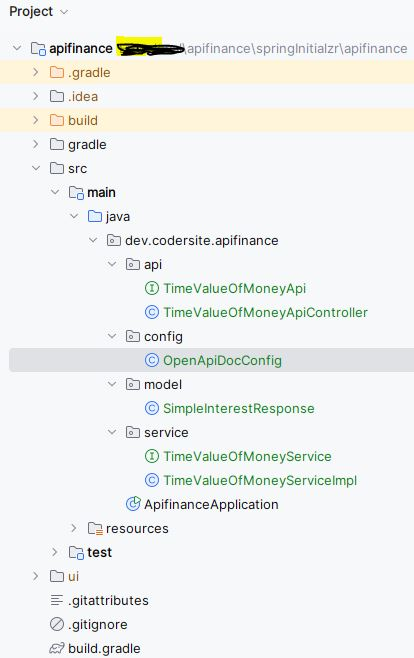
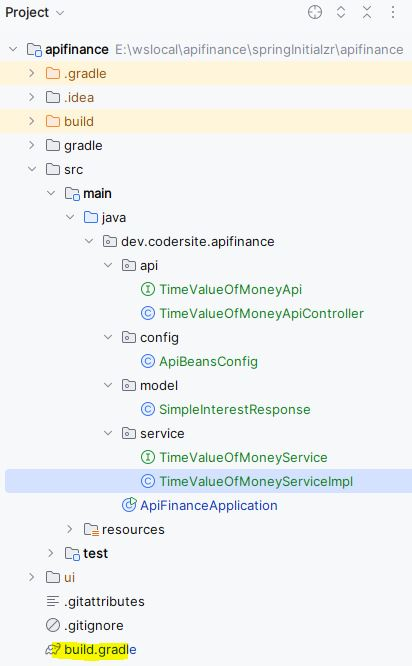
clean code include constants

diff --git a/_site/assets/js/lunrsearchengine.js b/_site/assets/js/lunrsearchengine.js
@@ -248,7 +248,7 @@ var documents = [{
     "id": 49,
     "url": "http://localhost:4000/clean-code/",
     "title": "Best practices for writing Clean Code",
-    "body": "2020/10/27 - Clean code can be read and enhanced by a developer other than its original author. This kind of practice Robert C Martin introduced it. If you want to be a better programmer, you must follow these recommendations. Clean Code has Intention-Revealing names: Names reveal intent. Someone who reads your code must understand the purpose of your variable, function, or class. Real situation: 12int sId; //supplier Idint artDelPrice;It must be refactored to this: 12int supplierId;int articleDeliveredPrice;Even with external dependencies: 1private Z_E2F_RS_Result e2fResult; //ingredients recordsetIt must be refactored to this: 1private Z_E2F_RS_Result ingredients;Imagine that we dont have the //ingredients comment in e2fResult variable. Then, further in any part of our code, when we try to process this variable, we have the following sentence: 1e2f = e2fResult[i];And we don’t know what does e2f means!. Well, someone suggests asking the person responsible for this code. But that guy is not at the office. Well, send it an email, and he is on holiday!. But if instead we adopt names which reveal intent from beginning, we could avoid these catastrophic scenarios. Refactored code: 1ingredient = ingredients[i];Functions should do one thing: Imagine we want to retrieve image objects from an external web service. Firstly, we receive image metadata that informs different values to decide if an image is valid or not, and one of these values is an image identifier to retrieve the final image object. 1234567891011121314151617private String retrieveImageId(String[] values) {  if (!values[2]. equals( Y ) || !values[3]. equals( Y ))  return null;	  String imageId = null;  //get the first not null value as the imageId  if (values[4] != null) {   imageId = values[4]; //imageAIXId  } else if (values[5] != null) {   imageId = values[5]; //imageLIXId  } else if (values[6] != null) {   imageId = values[6]; //imageOIXId  }  return imageId;}The previous code is doing more than one thing: validate and retrieve. Each thing should implement only one level of abstraction. Therefore we proceed to refactor it. 1234567private boolean validateImage(String[] values) {  if (!values[2]. equals( Y ) || !values[3]. equals( Y ))  return false;	 return true;}1234567891011121314private String retrieveImageId(String[] values) {  String imageId = null; //get the first not null value as the immageId if (values[4] != null) {  imageId = values[4]; //imageAIXId } else if (values[5] != null) {  imageId = values[5]; //imageLIXId } else if (values[6] != null) {  imageId = values[6]; //imageOIXId } return imageId;}Here is an example of how to use these new smaller functions. 12345678910111213public void syncronizeImages () {  Response response = api. getImages(); Row[] rows = response. getRows(); for (Row row : rows) {  String[] values = row. getValues();  if (validateImage(values)) {   String imageId = retrieveImageId(values);   //call ULR to retrieve image object   //code omitted for brevity  } }}Don’t comment bad code, rewrite it: Imagine you requested metadata from a list of articles, but the external API, for any reason, includes additional articles in its response object. Before processing their metadata, you want to check that retrieved articles are inside your temporal map of requested articles. Introduces a comment to alert your colleagues. 123456789101112131415public void syncronizeImages () { Response response = api. getImages(mapOfArticles); Row[] rows = response. getRows(); for (Row row : rows) {  String[] values = row. getValues();  String articleId = values[1];    //only requested articles  if (!mapOfArticles. containsKey(articleId))   continue;	   //code omitted for brevity }}You can avoid this extra unnecessary comment if you express in your code what you want to communicate by renaming the map variable name. 1234567891011121314public void syncronizeImages () { Response response = api. getImages(mapOfRequestedArticles); Row[] rows = response. getRows(); for (Row row : rows) {  String[] values = row. getValues();  String articleId = values[1];    if (!mapOfRequestedArticles. containsKey(articleId))   continue;	   //code omitted for brevity }}Now, your code is more expressive. Choose simplicity over complexity: As developers, sometimes we use ternary conditional operators that take less space, but when we introduce more variables, the code is not readable or is more difficult to evolve. For example, when we try to build the article’s image URL, we need to evaluate if an image is valid and if the image is not restricted; if it is restricted, we need to assess whether a partner can retrieve this image. 1String articleImageURL = (imageId &lt;= 0 || (imageIdIsRestricted &amp;&amp; !partnerCanSeeImage)) ? null : IMAGE_URL + imageId;The previous code can be refactored using nested if-else statements, which is easier to understand. 12345678910String articleImageURL = null;if (imageId &gt; 0) { if (imageIdIsRestricted) {  if (partnerCanSeeImage) {   articleImageURL = IMAGE_URL + imageId;  } } else {  articleImageURL = IMAGE_URL + imageId; }}Even the KISS (Keep It Simple, Stupid) principle suggests that developers should strive for simplicity and avoid unnecessary complexity. This makes code easier to understand, maintain, and debug.  Any software design is generally a matter of opinion. There is no definitive Guide. – codersite. dev  Avoid hard coding: Hard coding is embedding data directly into the source code instead of obtaining the data from external sources. Sometimes we can’t avoid including conditional statements using hardcoded values because we need to implement them in a production environment immediately. There are hundreds of reasons why this happens because every company is different. A company wants to implement in its code validation of customers who have the right to view images from certain providers. The standard procedure in this company starts with a requirement to the DBA to implement a database function to retrieve a list of providers with this kind of restriction, create param classes for the developers, a period of implementation in a development environment, and its tests in a test environment, and deliver to the production environment. But the company is facing problems with image author property rights and does not have the resources to implement the requirement, then decides to introduce hard-coded values. 1 boolean picIsRestricted = result. getProviderId() ==  530636  || result. getProviderId() ==  36507 ; We usually forget the standard procedure to implement the solution because our code is already working. But these hard code values are required in other modules, packages, and classes and may need to validate more providers, etc. , and the effort to maintain the code increase exponentially. And I think you know the rest of the history. You can implement a little function to retrieve external data from a text file. 12345public interface DataService { public List&lt;String&gt; getRestrictedProviders() throws Exception;}Then, you can implement your hard-coded values in an implementation class. 123456789101112131415161718public class DataServiceImpl implements DataService { @Override public List&lt;String&gt; getRestrictedProviders() throws Exception {  List&lt;String&gt; listOfRestrictedProviders = new ArrayList&lt;&gt;();  Resource resource = new ClassPathResource( providers. txt );   try {    List&lt;String&gt; allLines = Files. readAllLines(Paths. get(resource. getURI()));    for (String provider : allLines) {     listOfRestrictedProviders. add(provider);     //TODO retrieve data from a standard database function    }   } catch (IOException e) {    e. printStackTrace();   }  return listOfRestrictedProviders; }}Then, you can always reuse the same validation in any place of your code. 123456 List&lt;String&gt; listOfRestrictedProviders = dataService. getRestrictedProviders(); boolean picIsRestricted = listOfRestrictedProviders. contains(result. getProviderId());}The day you decide to implement the standard procedure - database function - your effort in refactoring your code will be minimal. Clean Code: A Handbook of Agile Software Craftsmanship (Robert C. Martin) https://t. co/ARf0FUDzRw via @amazon &mdash; Moises Gamio (@MoisesGamio) September 25, 2024Name your variables according to the context: It is usual to have an attribute that applies to two different objects. For example, an Buyer Object has an email address. 12345678public class Buyer { private int buyerId; private String lastName; private String email;  //code omitted for brevity}We can see the same attribute in a Supplier Object. 12345678public class Supplier { private int supplierId; private String contact; private String email;  //code omitted for brevity}When retrieving an email from a supplier object, we may lose the context. 1String email = supplier. getEmail();Further in our code, we may be unsure if the email variable refers to a Supplier or a Buyer. I prefer to define the schemas of our Objects based on the context. 12345678public class Buyer { private int buyerId; private String buyerLastName; private String buyerEmail;  //code omitted for brevity}We do the same for the Supplier object. 12345678public class Supplier { private int supplierId; private String supplierContact; private String supplierEmail;  //code omitted for brevity}The most advanced editors provide coding assistance features such as variable name suggestions as you type. 123String supplierEmail = supplier. getSupplierEmail();String buyerEmail = buyer. getBuyerEmail();Method Overloading: Suppose we already have a function communicating well with an external service. We send data to subscribe to the external service for a new buyer. 123public int subscribe(String email, Buyer buyer) { //code omitted for brevity}This function is called from several parts of a program. 12subscriberId = WSClient. subscribe(email, buyer);}Now, we want to send new buyers, but at the same time, we want to inform the external service to take action based on a specific tagged attribute. If we decide to refactor the function to accept a new argument, we need to change our program in all parts that call the function, even when they dont need to pass the new attribute. 12subscriberId = WSClient. subscribe(email, buyer, null);}We can introduce a new function with the same name but with a new parameter. 1234567public int subscribe(String email, Buyer buyer, Integer tagId) { //code omitted for brevity}public int subscribe(String email, Buyer buyer) { //code omitted for brevity}Only new parts of the program that need to use the new functionality call the new method. 12subscriberId = WSClient. subscribe(email, buyer, 102911);}Method overloading increases the readability and reusability of the program. Avoid Too Many Arguments In Functions: Sometimes, we write functions containing more than three arguments, like this function: 123public boolean validateAddress(String street, int number, String postalCode, String city, String country) { //code omitted for brevity}As all these arguments belong to an Address concept, we can pass an Object as an argument. 123public boolean validateAddress(Address address) { //code omitted for brevity}Clean Code tells a story: When we try to fix bugs, when analyzing the secuence of actions (functions, methods), we realize the code does not communicate well the logical flow of these actions. It’s a nightmare to decode the meaning of these actions. This will always happen because our initial design based on the initial requirements change over time. As developers, we are responsible for refactoring our code to made it a simple story that everybody can understand. For example, look at the following code: 1234567891011ACMEWebServiceClient. login();if (process. equals( core ) {  ACMEWebServiceClient. transfer_buyersCoreData_to_ACME();}if (process. equals( status )) {  ACMEWebServiceClient. transfer_buyersStatusChanges_to_ACME();}if (process. equals( events )) {  ACMEWebServiceClient. transfer_events_to_ACME();}ACMEServiceClient. logout();Applications of clean code:  Refactoring techniques for improving code cleanliness Achieving maintainability through clean code practices Clean code practices for agile software development teams Code review checklist for ensuring clean code Clean code in object-oriented programming Clean code practices for improving software security Clean code practices for improving code collaboration Clean code and continuous integration/continuous deployment (CI/CD)Please donate to maintain and improve this website if you find this content valuable.   You can see a lot of typical algorithms implemented with Clean Code principles in Cracking the coding interview  "
+    "body": "2020/10/27 - Clean code can be read and enhanced by a developer other than its original author. This kind of practice Robert C Martin introduced it. If you want to be a better programmer, you must follow these recommendations. Clean Code has Intention-Revealing names: Names reveal intent. Someone who reads your code must understand the purpose of your variable, function, or class. Real situation: 12int sId; //supplier Idint artDelPrice;It must be refactored to this: 12int supplierId;int articleDeliveredPrice;Even with external dependencies: 1private Z_E2F_RS_Result e2fResult; //ingredients recordsetIt must be refactored to this: 1private Z_E2F_RS_Result ingredients;Imagine that we dont have the //ingredients comment in e2fResult variable. Then, further in any part of our code, when we try to process this variable, we have the following sentence: 1e2f = e2fResult[i];And we don’t know what does e2f means!. Well, someone suggests asking the person responsible for this code. But that guy is not at the office. Well, send it an email, and he is on holiday!. But if instead we adopt names which reveal intent from beginning, we could avoid these catastrophic scenarios. Refactored code: 1ingredient = ingredients[i];Functions should do one thing: Imagine we want to retrieve image objects from an external web service. Firstly, we receive image metadata that informs different values to decide if an image is valid or not, and one of these values is an image identifier to retrieve the final image object. 1234567891011121314151617private String retrieveImageId(String[] values) {  if (!values[2]. equals( Y ) || !values[3]. equals( Y ))  return null;	  String imageId = null;  //get the first not null value as the imageId  if (values[4] != null) {   imageId = values[4]; //imageAIXId  } else if (values[5] != null) {   imageId = values[5]; //imageLIXId  } else if (values[6] != null) {   imageId = values[6]; //imageOIXId  }  return imageId;}The previous code is doing more than one thing: validate and retrieve. Each thing should implement only one level of abstraction. Therefore we proceed to refactor it. 1234567private boolean validateImage(String[] values) {  if (!values[2]. equals( Y ) || !values[3]. equals( Y ))  return false;	 return true;}1234567891011121314private String retrieveImageId(String[] values) {  String imageId = null; //get the first not null value as the immageId if (values[4] != null) {  imageId = values[4]; //imageAIXId } else if (values[5] != null) {  imageId = values[5]; //imageLIXId } else if (values[6] != null) {  imageId = values[6]; //imageOIXId } return imageId;}Here is an example of how to use these new smaller functions. 12345678910111213public void syncronizeImages () {  Response response = api. getImages(); Row[] rows = response. getRows(); for (Row row : rows) {  String[] values = row. getValues();  if (validateImage(values)) {   String imageId = retrieveImageId(values);   //call ULR to retrieve image object   //code omitted for brevity  } }}Don’t comment bad code, rewrite it: Imagine you requested metadata from a list of articles, but the external API, for any reason, includes additional articles in its response object. Before processing their metadata, you want to check that retrieved articles are inside your temporal map of requested articles. Introduces a comment to alert your colleagues. 123456789101112131415public void syncronizeImages () { Response response = api. getImages(mapOfArticles); Row[] rows = response. getRows(); for (Row row : rows) {  String[] values = row. getValues();  String articleId = values[1];    //only requested articles  if (!mapOfArticles. containsKey(articleId))   continue;	   //code omitted for brevity }}You can avoid this extra unnecessary comment if you express in your code what you want to communicate by renaming the map variable name. 1234567891011121314public void syncronizeImages () { Response response = api. getImages(mapOfRequestedArticles); Row[] rows = response. getRows(); for (Row row : rows) {  String[] values = row. getValues();  String articleId = values[1];    if (!mapOfRequestedArticles. containsKey(articleId))   continue;	   //code omitted for brevity }}Now, your code is more expressive. Choose simplicity over complexity: As developers, sometimes we use ternary conditional operators that take less space, but when we introduce more variables, the code is not readable or is more difficult to evolve. For example, when we try to build the article’s image URL, we need to evaluate if an image is valid and if the image is not restricted; if it is restricted, we need to assess whether a partner can retrieve this image. 1String articleImageURL = (imageId &lt;= 0 || (imageIdIsRestricted &amp;&amp; !partnerCanSeeImage)) ? null : IMAGE_URL + imageId;The previous code can be refactored using nested if-else statements, which is easier to understand. 12345678910String articleImageURL = null;if (imageId &gt; 0) { if (imageIdIsRestricted) {  if (partnerCanSeeImage) {   articleImageURL = IMAGE_URL + imageId;  } } else {  articleImageURL = IMAGE_URL + imageId; }}Even the KISS (Keep It Simple, Stupid) principle suggests that developers should strive for simplicity and avoid unnecessary complexity. This makes code easier to understand, maintain, and debug.  Any software design is generally a matter of opinion. There is no definitive Guide. – codersite. dev  Avoid hard coding: Hard coding is embedding data directly into the source code instead of obtaining the data from external sources. Sometimes we can’t avoid including conditional statements using hardcoded values because we need to implement them in a production environment immediately. There are hundreds of reasons why this happens because every company is different. A company wants to implement in its code validation of customers who have the right to view images from certain providers. The standard procedure in this company starts with a requirement to the DBA to implement a database function to retrieve a list of providers with this kind of restriction, create param classes for the developers, a period of implementation in a development environment, and its tests in a test environment, and deliver to the production environment. But the company is facing problems with image author property rights and does not have the resources to implement the requirement, then decides to introduce hard-coded values. 1 boolean picIsRestricted = result. getProviderId() ==  530636  || result. getProviderId() ==  36507 ; We usually forget the standard procedure to implement the solution because our code is already working. But these hard code values are required in other modules, packages, and classes and may need to validate more providers, etc. , and the effort to maintain the code increase exponentially. And I think you know the rest of the history. You can implement a little function to retrieve external data from a text file. 12345public interface DataService { public List&lt;String&gt; getRestrictedProviders() throws Exception;}Then, you can implement your hard-coded values in an implementation class. 123456789101112131415161718public class DataServiceImpl implements DataService { @Override public List&lt;String&gt; getRestrictedProviders() throws Exception {  List&lt;String&gt; listOfRestrictedProviders = new ArrayList&lt;&gt;();  Resource resource = new ClassPathResource( providers. txt );   try {    List&lt;String&gt; allLines = Files. readAllLines(Paths. get(resource. getURI()));    for (String provider : allLines) {     listOfRestrictedProviders. add(provider);     //TODO retrieve data from a standard database function    }   } catch (IOException e) {    e. printStackTrace();   }  return listOfRestrictedProviders; }}Then, you can always reuse the same validation in any place of your code. 123456 List&lt;String&gt; listOfRestrictedProviders = dataService. getRestrictedProviders(); boolean picIsRestricted = listOfRestrictedProviders. contains(result. getProviderId());}The day you decide to implement the standard procedure - database function - your effort in refactoring your code will be minimal. Clean Code: A Handbook of Agile Software Craftsmanship (Robert C. Martin) https://t. co/ARf0FUDzRw via @amazon &mdash; Moises Gamio (@MoisesGamio) September 25, 2024Name your variables according to the context: It is usual to have an attribute that applies to two different objects. For example, an Buyer Object has an email address. 12345678public class Buyer { private int buyerId; private String lastName; private String email;  //code omitted for brevity}We can see the same attribute in a Supplier Object. 12345678public class Supplier { private int supplierId; private String contact; private String email;  //code omitted for brevity}When retrieving an email from a supplier object, we may lose the context. 1String email = supplier. getEmail();Further in our code, we may be unsure if the email variable refers to a Supplier or a Buyer. I prefer to define the schemas of our Objects based on the context. 12345678public class Buyer { private int buyerId; private String buyerLastName; private String buyerEmail;  //code omitted for brevity}We do the same for the Supplier object. 12345678public class Supplier { private int supplierId; private String supplierContact; private String supplierEmail;  //code omitted for brevity}The most advanced editors provide coding assistance features such as variable name suggestions as you type. 123String supplierEmail = supplier. getSupplierEmail();String buyerEmail = buyer. getBuyerEmail();Method Overloading: Suppose we already have a function communicating well with an external service. We send data to subscribe to the external service for a new buyer. 123public int subscribe(String email, Buyer buyer) { //code omitted for brevity}This function is called from several parts of a program. 12subscriberId = WSClient. subscribe(email, buyer);}Now, we want to send new buyers, but at the same time, we want to inform the external service to take action based on a specific tagged attribute. If we decide to refactor the function to accept a new argument, we need to change our program in all parts that call the function, even when they dont need to pass the new attribute. 12subscriberId = WSClient. subscribe(email, buyer, null);}We can introduce a new function with the same name but with a new parameter. 1234567public int subscribe(String email, Buyer buyer, Integer tagId) { //code omitted for brevity}public int subscribe(String email, Buyer buyer) { //code omitted for brevity}Only new parts of the program that need to use the new functionality call the new method. 12subscriberId = WSClient. subscribe(email, buyer, 102911);}Method overloading increases the readability and reusability of the program. Avoid Too Many Arguments In Functions: Sometimes, we write functions containing more than three arguments, like this function: 123public boolean validateAddress(String street, int number, String postalCode, String city, String country) { //code omitted for brevity}As all these arguments belong to an Address concept, we can pass an Object as an argument. 123public boolean validateAddress(Address address) { //code omitted for brevity}Clean Code tells a story: When we try to fix bugs, when analyzing the secuence of actions (functions, methods), we realize the code does not communicate well the logical flow of these actions. It’s a nightmare to decode the meaning of these actions. This will always happen because our initial design based on the initial requirements change over time. As developers, we are responsible for refactoring our code to made it a simple story that everybody can understand. For example, look at the following code: 1234567891011ACMEWebServiceClient. login();if (process. equals( core ) {  ACMEWebServiceClient. transfer_buyersCoreData_to_ACME();}if (process. equals( status )) {  ACMEWebServiceClient. transfer_buyersStatusChanges_to_ACME();}if (process. equals( events )) {  ACMEWebServiceClient. transfer_events_to_ACME();}ACMEServiceClient. logout();Include Constants to avoid deprecated libraries: We have the following scenario: we migrate an XYZ application to a new application server, and suddenly we realize that a library belonging to our current application server is no longer supported. 1234import org. apache. axis. transport. http. HTTPConstants;// We try to manipulate a requestHttpServletRequest httpServletRequest = (HttpServletRequest)context. get(HTTPConstants. MC_HTTP_SERVLETREQUEST);We put a lot of effort into finding a compatible version of the org. apache. axis library. We realized that our code only uses this MC_HTTP_SERVLETREQUEST constant from the whole library, and it also returns the following value: 1 transport. http. servletRequest Well, an easy solution is to declare a local constant for the project. 1public static final String HTTPConstants_MC_HTTP_SERVLETREQUEST =  transport. http. servletRequest ;Then, we can refactor our original code: 1HttpServletRequest httpServletRequest = (HttpServletRequest)context. get(HTTPConstants_MC_HTTP_SERVLETREQUEST);And we can remove the old library from the project. Applications of clean code:  Refactoring techniques for improving code cleanliness Achieving maintainability through clean code practices Clean code practices for agile software development teams Code review checklist for ensuring clean code Clean code in object-oriented programming Clean code practices for improving software security Clean code practices for improving code collaboration Clean code and continuous integration/continuous deployment (CI/CD)Please donate to maintain and improve this website if you find this content valuable.   You can see a lot of typical algorithms implemented with Clean Code principles in Cracking the coding interview  "
     }, {
     "id": 50,
     "url": "http://localhost:4000/documenting-rest-api-openapi3/",

diff --git a/_site/clean-code/index.html b/_site/clean-code/index.html
@@ -865,7 +865,43 @@
 <span class="nc">ACMEServiceClient</span><span class="p">.</span><span class="nf">logout</span><span class="p">();</span>
 </pre></td></tr></tbody></table></code></pre></div></div>
 
-<p>Applications of clean code:</p>
+<h2 id="include-constants-to-avoid-deprecated-libraries">Include Constants to avoid deprecated libraries</h2>
+
+<p>We have the following scenario: we migrate an XYZ application to a new application server, and suddenly we realize that a library belonging to our current application server is no longer supported.</p>
+
+<div class="language-kotlin highlighter-rouge"><div class="highlight"><pre class="highlight"><code><table class="rouge-table"><tbody><tr><td class="rouge-gutter gl"><pre class="lineno">1
+2
+3
+4
+</pre></td><td class="rouge-code"><pre><span class="k">import</span> <span class="nn">org.apache.axis.transport.http.HTTPConstants;</span>
+
+<span class="c1">// We try to manipulate a request</span>
+<span class="nc">HttpServletRequest</span> <span class="n">httpServletRequest</span> <span class="p">=</span> <span class="p">(</span><span class="nc">HttpServletRequest</span><span class="p">)</span><span class="n">context</span><span class="p">.</span><span class="k">get</span><span class="p">(</span><span class="nc">HTTPConstants</span><span class="p">.</span><span class="nc">MC_HTTP_SERVLETREQUEST</span><span class="p">);</span>
+</pre></td></tr></tbody></table></code></pre></div></div>
+
+<p>We put a lot of effort into finding a compatible version of the org.apache.axis library.</p>
+
+<p>We realized that our code only uses this MC_HTTP_SERVLETREQUEST constant from the whole library, and it also returns the following value:</p>
+
+<div class="language-kotlin highlighter-rouge"><div class="highlight"><pre class="highlight"><code><table class="rouge-table"><tbody><tr><td class="rouge-gutter gl"><pre class="lineno">1
+</pre></td><td class="rouge-code"><pre><span class="s">"transport.http.servletRequest"</span>
+</pre></td></tr></tbody></table></code></pre></div></div>
+
+<p>Well, an easy solution is to declare a local constant for the project.</p>
+
+<div class="language-kotlin highlighter-rouge"><div class="highlight"><pre class="highlight"><code><table class="rouge-table"><tbody><tr><td class="rouge-gutter gl"><pre class="lineno">1
+</pre></td><td class="rouge-code"><pre><span class="k">public</span> <span class="n">static</span> <span class="k">final</span> <span class="nc">String</span> <span class="nc">HTTPConstants_MC_HTTP_SERVLETREQUEST</span> <span class="p">=</span> <span class="s">"transport.http.servletRequest"</span><span class="p">;</span>
+</pre></td></tr></tbody></table></code></pre></div></div>
+
+<p>Then, we can refactor our original code:</p>
+
+<div class="language-kotlin highlighter-rouge"><div class="highlight"><pre class="highlight"><code><table class="rouge-table"><tbody><tr><td class="rouge-gutter gl"><pre class="lineno">1
+</pre></td><td class="rouge-code"><pre><span class="nc">HttpServletRequest</span> <span class="n">httpServletRequest</span> <span class="p">=</span> <span class="p">(</span><span class="nc">HttpServletRequest</span><span class="p">)</span><span class="n">context</span><span class="p">.</span><span class="k">get</span><span class="p">(</span><span class="nc">HTTPConstants_MC_HTTP_SERVLETREQUEST</span><span class="p">);</span>
+</pre></td></tr></tbody></table></code></pre></div></div>
+
+<p>And we can remove the old library from the project.</p>
+
+<p><strong>Applications of clean code</strong>:</p>
 
 <ul>
   <li>Refactoring techniques for improving code cleanliness</li>
